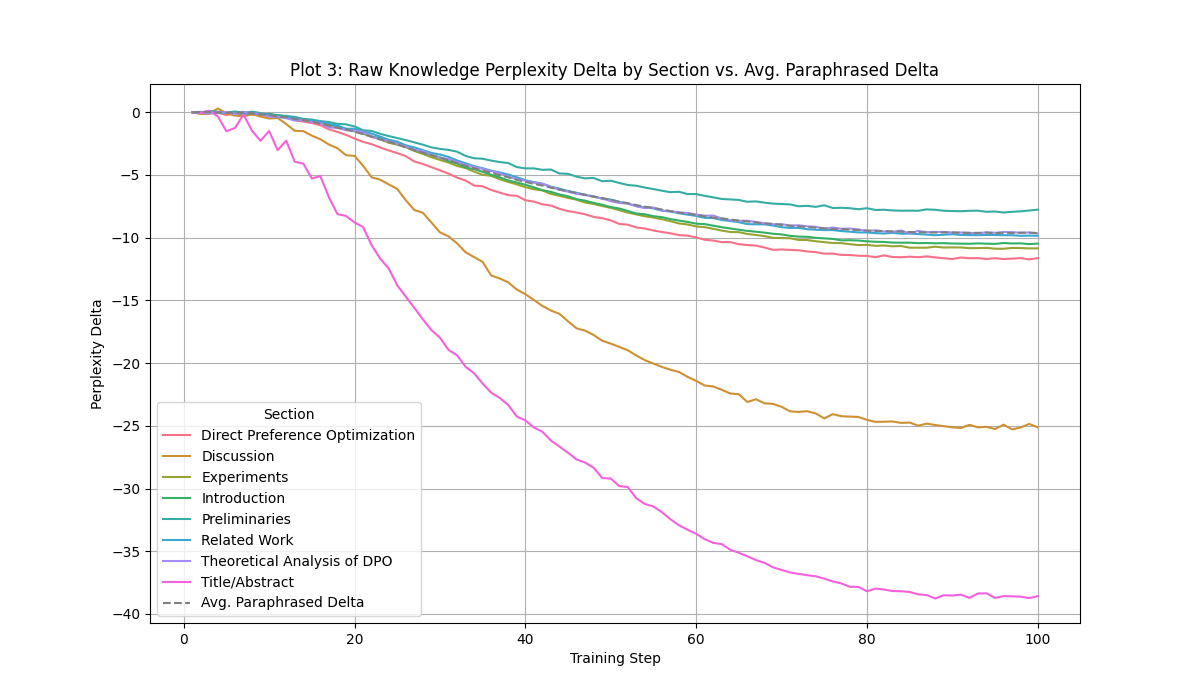
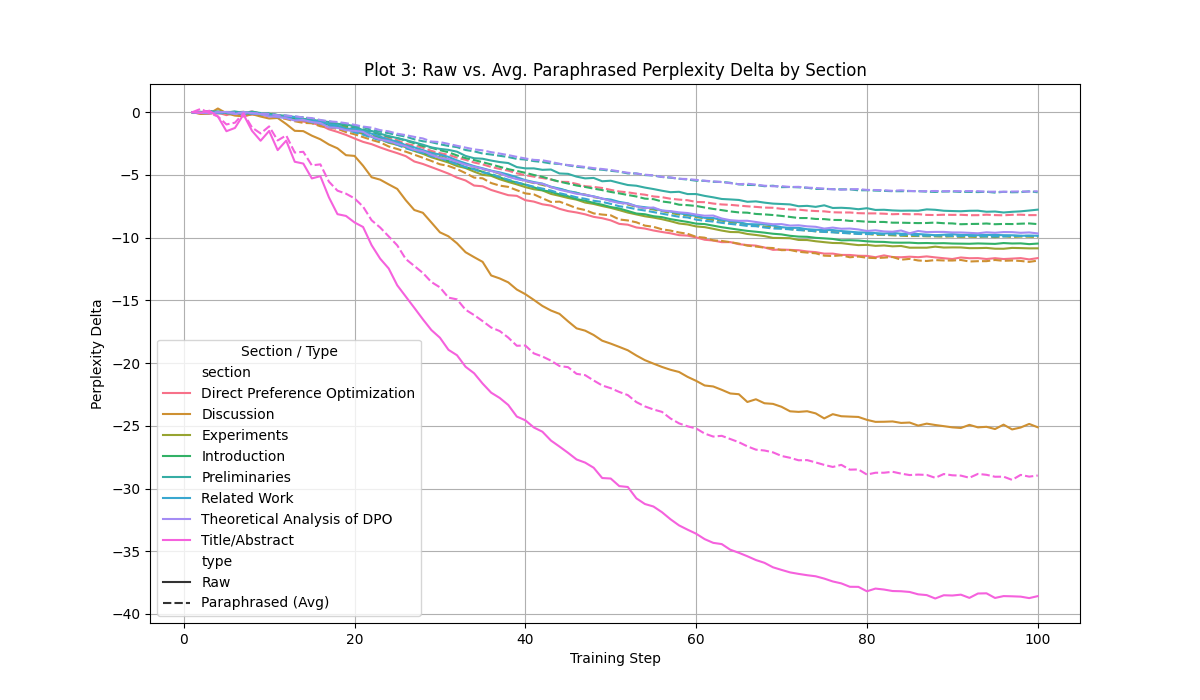
added 2 more plots to v5

diff --git a/utils/llm_plotting.py b/utils/llm_plotting.py
@@ -45,6 +45,91 @@ def generate_plots_from_files(output_dir: str, logger=None):
     paraphrase_ppl_cols = [col for col in metrics_df.columns if 'raw_knowledge_perplexity_paraphrase_' in col]
     paraphrase_delta_cols = [col for col in metrics_df.columns if 'raw_knowledge_perplexity_delta_paraphrase_' in col]
 
+    # --- PLOT 0: Raw Knowledge Perplexity Distribution ---
+    log_info("Generating Plot 0: Raw Knowledge Perplexity Distribution...")
+    plt.figure(figsize=(14, 8))
+    
+    if 'raw_knowledge_perplexity' in metrics_df.columns:
+        stats = metrics_df.groupby('step')['raw_knowledge_perplexity'].agg(['mean', 'std'])
+        mean = stats['mean']
+        std = stats['std']
+
+        # Plot the mean line
+        sns.lineplot(x=mean.index, y=mean.values, label='Mean Perplexity', color='blue')
+
+        # Add shadows for 1 and 2 standard deviations
+        plt.fill_between(mean.index, mean - 2 * std, mean + 2 * std, alpha=0.1, color='blue', label='2 Std. Dev.')
+        plt.fill_between(mean.index, mean - 1 * std, mean + 1 * std, alpha=0.2, color='blue', label='1 Std. Dev.')
+        
+        # Calculate fractions within std deviations at the last step
+        last_step_df = metrics_df[metrics_df['step'] == metrics_df['step'].max()]
+        last_perplexities = last_step_df['raw_knowledge_perplexity']
+        mean_last = last_perplexities.mean()
+        std_last = last_perplexities.std()
+        
+        within_1_std = ((last_perplexities >= mean_last - std_last) & (last_perplexities <= mean_last + std_last)).mean()
+        within_2_std = ((last_perplexities >= mean_last - 2*std_last) & (last_perplexities <= mean_last + 2*std_last)).mean()
+
+        text_str = (f"At final step:\n"
+                    f"Fraction within 1 Std. Dev.: {within_1_std:.2%}\n"
+                    f"Fraction within 2 Std. Dev.: {within_2_std:.2%}")
+        
+        plt.text(0.95, 0.95, text_str, transform=plt.gca().transAxes, fontsize=10,
+                 verticalalignment='top', horizontalalignment='right',
+                 bbox=dict(boxstyle='round,pad=0.5', fc='wheat', alpha=0.5))
+
+    plt.title('Plot 0: Raw Knowledge Perplexity Distribution')
+    plt.xlabel('Training Step')
+    plt.ylabel('Perplexity')
+    plt.grid(True, which="both", ls="--")
+    plt.legend()
+    plt.savefig(os.path.join(output_dir, "plot0_raw_ppl_distribution.png"))
+    plt.close()
+
+    # --- PLOT 0b: Paraphrased Knowledge Perplexity Distribution ---
+    log_info("Generating Plot 0b: Paraphrased Knowledge Perplexity Distribution...")
+    plt.figure(figsize=(14, 8))
+
+    if paraphrase_ppl_cols:
+        metrics_df['paraphrase_ppl_mean'] = metrics_df[paraphrase_ppl_cols].mean(axis=1)
+        
+        stats = metrics_df.groupby('step')['paraphrase_ppl_mean'].agg(['mean', 'std'])
+        mean = stats['mean']
+        std = stats['std']
+
+        # Plot the mean line
+        sns.lineplot(x=mean.index, y=mean.values, label='Mean Paraphrased Perplexity', color='green')
+
+        # Add shadows for 1 and 2 standard deviations
+        plt.fill_between(mean.index, mean - 2 * std, mean + 2 * std, alpha=0.1, color='green', label='2 Std. Dev.')
+        plt.fill_between(mean.index, mean - 1 * std, mean + 1 * std, alpha=0.2, color='green', label='1 Std. Dev.')
+
+        # Calculate fractions within std deviations at the last step
+        last_step_df = metrics_df[metrics_df['step'] == metrics_df['step'].max()]
+        last_perplexities = last_step_df['paraphrase_ppl_mean']
+        mean_last = last_perplexities.mean()
+        std_last = last_perplexities.std()
+        
+        within_1_std = ((last_perplexities >= mean_last - std_last) & (last_perplexities <= mean_last + std_last)).mean()
+        within_2_std = ((last_perplexities >= mean_last - 2*std_last) & (last_perplexities <= mean_last + 2*std_last)).mean()
+
+        text_str = (f"At final step:\n"
+                    f"Fraction within 1 Std. Dev.: {within_1_std:.2%}\n"
+                    f"Fraction within 2 Std. Dev.: {within_2_std:.2%}")
+        
+        plt.text(0.95, 0.95, text_str, transform=plt.gca().transAxes, fontsize=10,
+                 verticalalignment='top', horizontalalignment='right',
+                 bbox=dict(boxstyle='round,pad=0.5', fc='wheat', alpha=0.5))
+
+    plt.title('Plot 0b: Paraphrased Knowledge Perplexity Distribution')
+    plt.xlabel('Training Step')
+    plt.ylabel('Perplexity')
+    plt.grid(True, which="both", ls="--")
+    plt.legend()
+    plt.savefig(os.path.join(output_dir, "plot0b_paraphrased_ppl_distribution.png"))
+    plt.close()
+
+
     # --- PLOT 1: Combined Perplexity Deltas ---
     log_info("Generating Plot 1: Combined Perplexity Deltas...")
     plt.figure(figsize=(14, 8))
@@ -101,23 +186,36 @@ def generate_plots_from_files(output_dir: str, logger=None):
     plt.savefig(os.path.join(output_dir, "plot2_raw_vs_paraphrased_ppl.png"))
     plt.close()
 
-    # --- PLOT 3: Perplexity Deltas by Section vs. Paraphrased Average ---
+    # --- PLOT 3: Perplexity Deltas by Section (Raw vs. Paraphrased Avg) ---
     log_info("Generating Plot 3: Perplexity Deltas by Section...")
     plt.figure(figsize=(12, 7))
 
+    plot_data = []
+
+    # Prepare raw data
     if 'raw_knowledge_perplexity_delta' in metrics_df.columns:
-        avg_by_section = metrics_df.groupby(['step', 'section'])['raw_knowledge_perplexity_delta'].mean().reset_index()
-        sns.lineplot(data=avg_by_section, x='step', y='raw_knowledge_perplexity_delta', hue='section', palette=section_colors, hue_order=all_sections)
+        raw_df = metrics_df.groupby(['step', 'section'])['raw_knowledge_perplexity_delta'].mean().reset_index()
+        raw_df.rename(columns={'raw_knowledge_perplexity_delta': 'delta'}, inplace=True)
+        raw_df['type'] = 'Raw'
+        plot_data.append(raw_df)
 
+    # Prepare paraphrased data
     if paraphrase_delta_cols:
-        # Calculate the mean of the paraphrase deltas for each row
-        avg_paraphrased_ppl_delta = metrics_df.groupby('step')[paraphrase_delta_cols].mean().mean(axis=1)
-        sns.lineplot(x=avg_paraphrased_ppl_delta.index, y=avg_paraphrased_ppl_delta.values, color='gray', linestyle='--', label='Avg. Paraphrased Delta')
+        metrics_df['paraphrase_delta_mean'] = metrics_df[paraphrase_delta_cols].mean(axis=1)
+        paraphrased_df = metrics_df.groupby(['step', 'section'])['paraphrase_delta_mean'].mean().reset_index()
+        paraphrased_df.rename(columns={'paraphrase_delta_mean': 'delta'}, inplace=True)
+        paraphrased_df['type'] = 'Paraphrased (Avg)'
+        plot_data.append(paraphrased_df)
+    
+    if plot_data:
+        combined_df = pd.concat(plot_data, ignore_index=True)
+        sns.lineplot(data=combined_df, x='step', y='delta', hue='section', style='type',
+                     palette=section_colors, hue_order=all_sections)
 
-    plt.title('Plot 3: Raw Knowledge Perplexity Delta by Section vs. Avg. Paraphrased Delta')
+    plt.title('Plot 3: Raw vs. Avg. Paraphrased Perplexity Delta by Section')
     plt.xlabel('Training Step')
     plt.ylabel('Perplexity Delta')
     plt.grid(True)
-    plt.legend(title='Section')
+    plt.legend(title='Section / Type')
     plt.savefig(os.path.join(output_dir, "plot3_ppl_delta_by_section.png"))
     plt.close()
